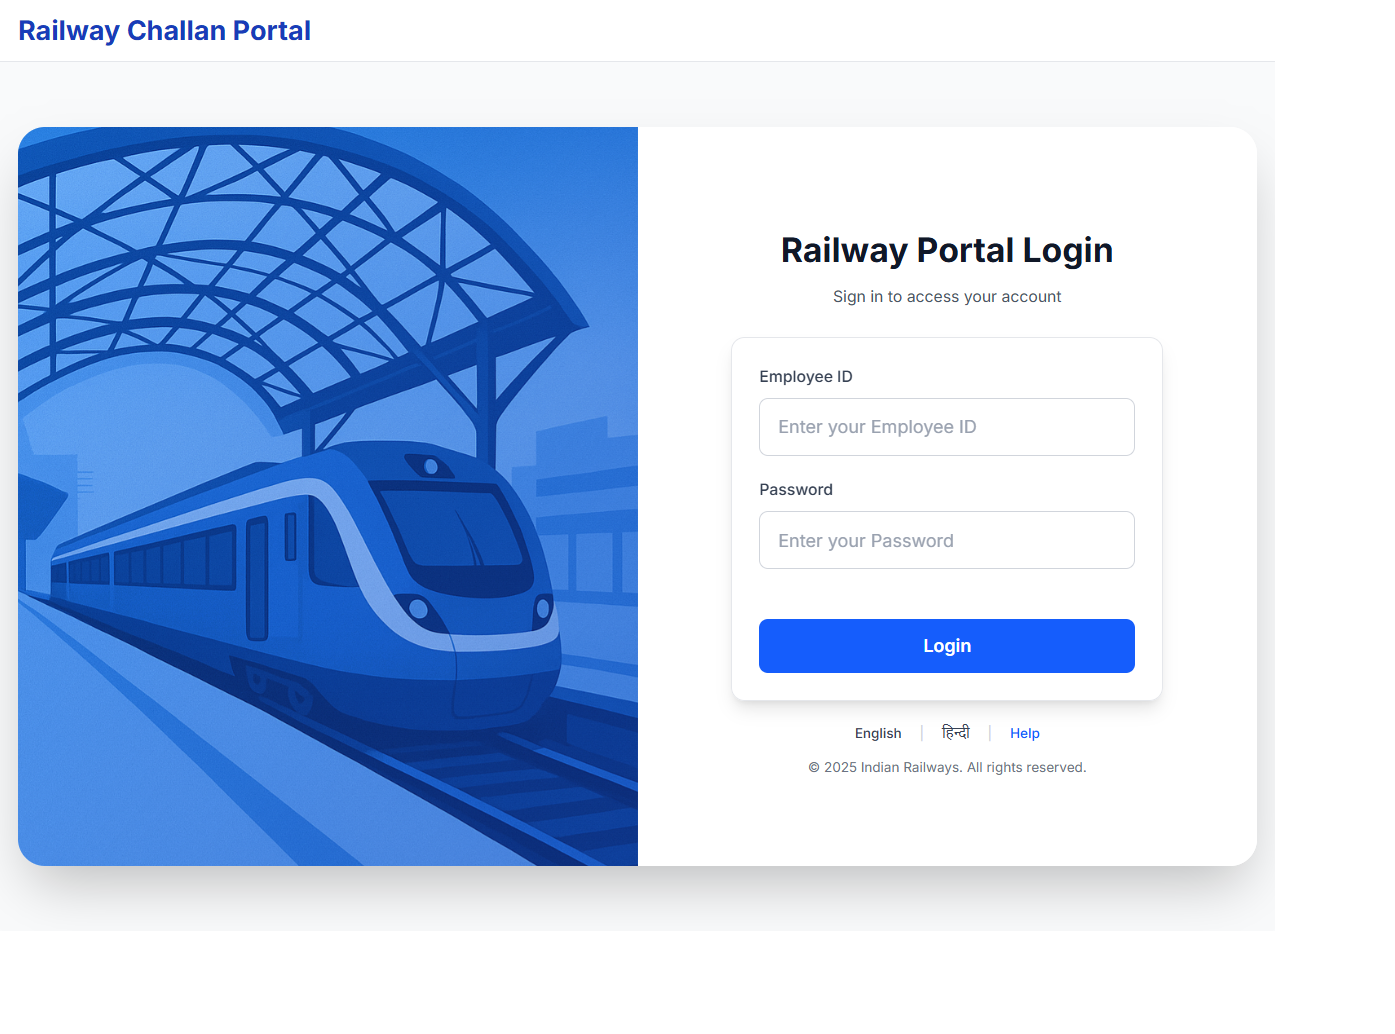
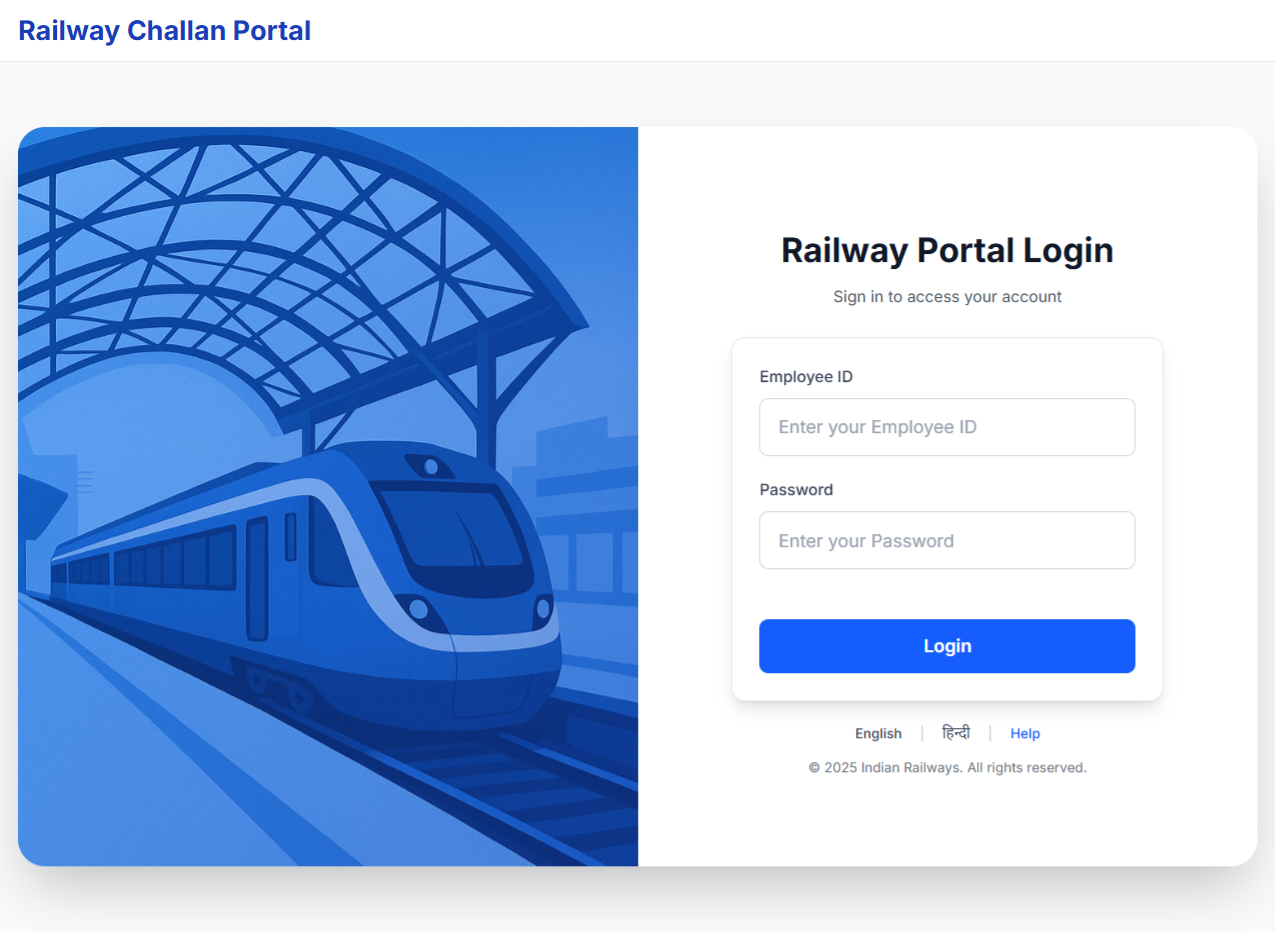
resize images in readme

diff --git a/README.md b/README.md
@@ -45,46 +45,50 @@ Live API Docs: https://ayushhh101.github.io/railway-challan-api-docs/
 ### Core Application Views
 
 <p align="center">
-  <img src="docs/screenshots/localhost_5173_login.png" alt="Login Page" width="800">
+  <img src="docs/screenshots/localhost_5173_login.png" alt="Login Page" width="600">
   <br>
   <em>Secure login interface with Employee ID authentication</em>
 </p>
 
 <p align="center">
-  <img src="docs/screenshots/localhost_5173_login_(1).png" alt="Admin Dashboard" width="1000">
+  <img src="docs/screenshots/localhost_5173_login_(1).png" alt="Admin Dashboard" width="700">
   <br>
   <em>Admin dashboard with real-time analytics and system overview</em>
 </p>
 
 <p align="center">
-  <img src="docs/screenshots/localhost_5173_challans_68e21eaa73ce699f7d538d52_(5).png" alt="TTE Dashboard" width="1000">
+  <img src="docs/screenshots/localhost_5173_challans_68e21eaa73ce699f7d538d52_(5).png" alt="TTE Dashboard" width="700">
   <br>
   <em>TTE dashboard showing performance statistics and recent activity</em>
 </p>
 
 <p align="center">
-  <img src="docs/screenshots/localhost_5173_login_(5).png" alt="Offline Challan Workflow" width="900">
+  <img src="docs/screenshots/localhost_5173_login_(5).png" alt="Offline Challan Workflow" width="700">
   <br>
   <em>Offline-first challan drafting with sync notification</em>
 </p>
 
 <p align="center">
-  <img src="docs/screenshots/localhost_5173_challans_68e21eaa73ce699f7d538d52.png" alt="Challan Details" width="1000">
+  <img src="docs/screenshots/localhost_5173_challans_68e21eaa73ce699f7d538d52.png" alt="Challan Details" width="700">
   <br>
   <em>Complete challan information with passenger, train, offense, and payment details</em>
 </p>
 
 <p align="center">
-  <img src="docs/screenshots/localhost_5173_challans_68e21eaa73ce699f7d538d52_(2).png" alt="Security Anomaly Center" width="1000">
+  <img src="docs/screenshots/localhost_5173_challans_68e21eaa73ce699f7d538d52_(2).png" alt="Security Anomaly Center" width="700">
   <br>
   <em>Admin security monitoring with anomaly detection and resolution</em>
 </p>
 
 <p align="center">
-  <img src="docs/screenshots/localhost_5173_passenger_dashboard.png" alt="Passenger Portal" width="1000">
+  <img src="docs/screenshots/localhost_5173_passenger_dashboard.png" alt="Passenger Portal" width="700">
   <br>
   <em>Passenger self-service portal with challan history and payment status</em>
 </p>
+
+---
+
+**📸 [View Full-Size Screenshots →](docs/SCREENSHOTS.md)**
 
 ---
 
